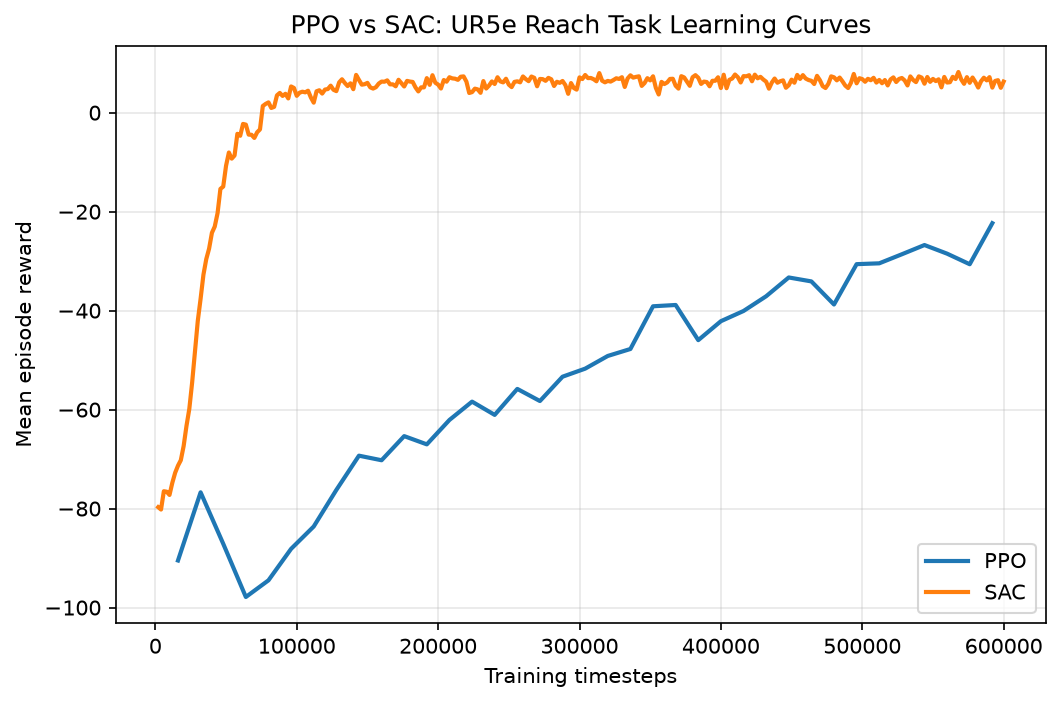
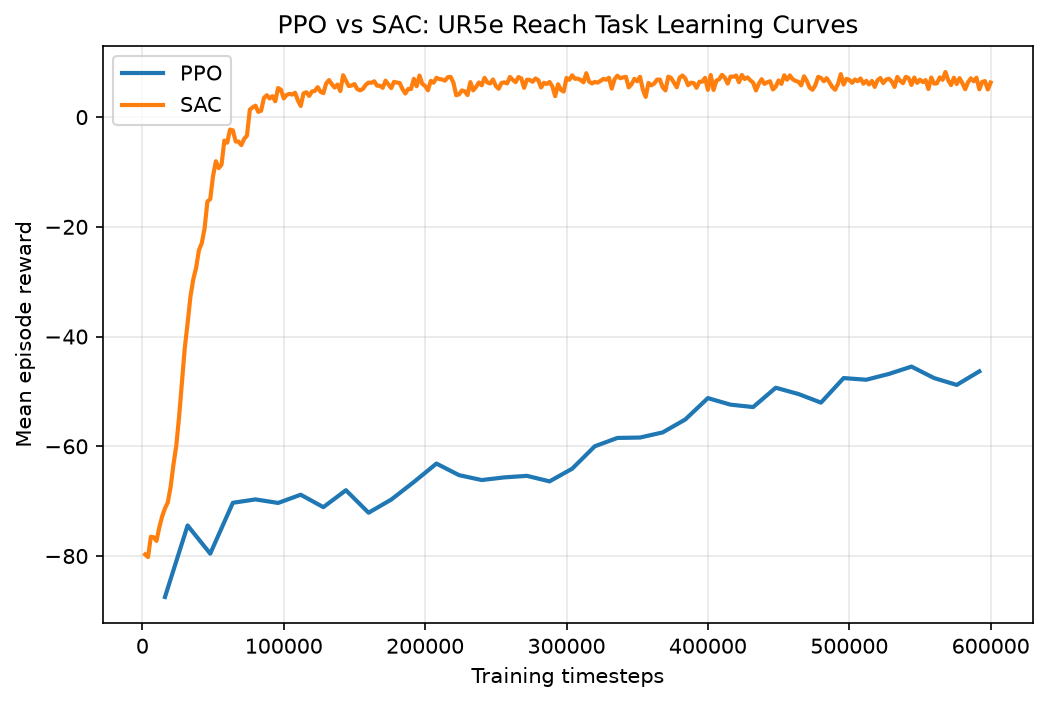
Retrain PPO at 600k to match SAC's budget

diff --git a/README.md b/README.md
@@ -1,14 +1,16 @@
 # UR5e Reach: MuJoCo RL Policy Deployed via ROS 2
 
-A UR5e arm learns to reach randomly placed 3D targets in MuJoCo via reinforcement learning, then gets deployed through a ROS 2 node interface — the same topic structure a real robot controller would use, not just a script that happens to move a simulated arm.
-
-I built this to compare PPO against SAC on a continuous control task, and to get past the part most RL tutorials stop short of: taking a trained policy out of a script and wiring it into something that actually looks like a robotics stack.
+A UR5e arm learns to reach randomly placed 3D targets in MuJoCo via reinforcement learning, then gets deployed through a ROS 2 node interface. I built this to compare PPO against SAC on a continuous control task, and to get past the part most RL tutorials stop short of: taking a trained policy out of a script and wiring it into a ROS 2 topic interface.
 
 ## Why a reach task, not full grasping
 
 Full grasping (arm plus gripper contact dynamics) was the obvious next step after doing navigation work, but contact-rich reward shaping is notoriously slow to get right — it can eat weeks before anything trains reliably. A pure reach task skips the contact problem while still exercising the whole pipeline: environment design, training, and ROS 2 deployment.
 
 I used the official [MuJoCo Menagerie](https://github.com/google-deepmind/mujoco_menagerie) UR5e model instead of building a URDF from scratch. No reason to reinvent a robot model DeepMind already maintains and validates.
+
+## A note on what "reach" measures here
+
+The success condition tracks the position of the `wrist_3_link` body origin, not the model's `attachment_site` (the actual tool-center-point reference, offset about 10cm from that origin in the official model). With a 3cm success threshold, that 10cm gap is not negligible, so I'm calling this a **wrist reference point**, not a true end-effector/TCP reach — the task is real and the numbers below are accurate for what's actually being measured, but it's a wrist-position task, not a precision tool-tip task. Switching to `attachment_site` would be a clean follow-up, at the cost of retraining both models from scratch since it changes the observation and reward computation.
 
 ## Repo structure
 
@@ -31,9 +33,11 @@ results/                          - training outputs land here (gitignored excep
 
 **The observation includes `target_pos - ee_pos`, not just the raw target.** Handing the policy the relative vector directly saves it from learning that subtraction implicitly. Small change, noticeably faster early training.
 
-**PPO runs 8 parallel environments; SAC runs one.** PPO is on-policy and benefits from diverse experience per update. SAC has a replay buffer, so one environment is enough to keep it fed — running more would just burn compute for no benefit.
+**PPO runs 8 parallel environments; SAC runs one.** PPO is on-policy and benefits from diverse experience per update. SAC has a replay buffer, so one environment is enough to keep it fed — running more wouldn't meaningfully help it here.
 
-**Each RL action holds for 50 physics substeps, not one.** The model's physics timestep is 2ms. A single `mj_step()` per action only advances 2ms of real time, which isn't enough for the joint's position servo to move anywhere close to the commanded target — I measured this directly early on: a full-strength action produced about 0.0002 rad of actual movement. Holding the target across 50 substeps gives the servo real time to respond.
+**Each RL action holds for 50 physics substeps, not one.** The model's physics timestep is 2ms. A single `mj_step()` per action only advances 2ms of real time, nowhere near enough for the joint's position servo to move anywhere close to the commanded target — I measured this directly: a full-strength action produced about 0.0002 rad of actual movement with only one substep. Holding the target across 50 substeps (100ms of simulated time per action) gives the servo real time to respond.
+
+**Target sampling uses Gymnasium's seeded `self.np_random`, not the global NumPy RNG.** This wasn't the original implementation — I initially used plain `np.random.uniform()`, which meant `reset(seed=...)` silently didn't control target sampling at all, so two evaluation runs claiming "fixed seeds" weren't actually seeing the same targets. Fixed by routing all environment randomness through `self.np_random`, which is what `reset(seed=...)` actually controls. Worth calling out explicitly since it's exactly the kind of bug that looks fine until someone checks carefully.
 
 ## Setup
 
@@ -48,7 +52,7 @@ git clone --depth 1 --filter=blob:none --sparse https://github.com/google-deepmi
 cd mujoco_menagerie && git sparse-checkout set universal_robots_ur5e && cd ../..
 ```
 
-Quick smoke test — confirms the model loads and the env steps without errors:
+Quick smoke test — confirms the model loads, the env steps without errors, and passes Gymnasium's own API-contract checker:
 ```bash
 python envs/reach_env.py
 ```
@@ -56,27 +60,29 @@ python envs/reach_env.py
 ## Training
 
 ```bash
-python training/train_ppo.py --timesteps 300000
+python training/train_ppo.py --timesteps 600000
 python training/train_sac.py --timesteps 600000
 python training/compare_results.py
 ```
 
-SAC needed more timesteps than PPO to reach a comparable point, which sounds backwards given SAC is the more sample-efficient algorithm — but "sample-efficient" means it needs less *data* per unit of improvement, not less wall-clock training overall. I gave it more budget specifically to see how far it would go, and it kept improving well past where PPO plateaued.
+Both algorithms train on the same 600k-timestep budget and a fixed `seed=42`, so the comparison below isn't confounded by one algorithm simply getting more data than the other.
 
-`compare_results.py` produces `results/learning_curves.png`, `results/evaluation_summary.json`, and runs 20 fixed evaluation episodes for each algorithm, back to back in the same script.
+`compare_results.py` runs 20 evaluation episodes for each algorithm, using `self.np_random`-seeded resets — meaning both algorithms are evaluated against the *same* 20 targets, not independently sampled ones.
 
 ## Results
 
 | Algorithm | Success rate (20 episodes) | Mean final distance |
 |-----------|------------------------------|----------------------|
-| PPO       | 10%                           | 16.4 cm               |
-| SAC       | 95%                           | 3.1 cm                |
+| PPO       | 10%                           | 17.6 cm               |
+| SAC       | 90%                           | 2.2 cm                 |
 
 ![Learning curves](results/learning_curves.png)
 
+I ran this comparison twice. The first pass had two real problems: PPO trained on 300k timesteps against SAC's 600k, and the target-sampling seeding bug above meant the "20 fixed episodes" weren't actually matched between algorithms. Both issues are exactly the kind of thing that makes a comparison look controlled without actually being controlled. I fixed both, retrained PPO to match SAC's budget, and reran the whole evaluation. The result held: PPO landed at 10% again (17.6cm vs the original run's 16.4cm — consistent, not a fluke), while SAC's number shifted slightly (90% vs the original 95%, expected given it's now genuinely a different, previously-unseen set of 20 targets under the fixed seeding). The gap didn't close. That's a stronger result than the first pass, not just a repeated one — it survived a genuine attempt to break it.
+
 SAC's advantage comes down to sample efficiency: its replay buffer lets it reuse every transition many times over, while PPO discards each batch after a single update. For a task like this — continuous control, dense reward, no strict on-policy requirement — that difference compounds significantly over training.
 
-I checked this wasn't just a training-script artifact by deploying the SAC model through the actual ROS 2 bridge and watching it run live. Episode success rate and final distances in the live deployment closely matched the offline numbers above, which is what convinced me the ROS 2 integration reproduces the trained policy's behavior faithfully rather than introducing its own errors.
+I checked this wasn't just a training-script artifact by deploying the SAC model through the actual ROS 2 bridge and watching it run live. Episode success rate and final distances in the live deployment closely matched the offline numbers above.
 
 ![Demo](results/demo.gif)
 
@@ -109,19 +115,23 @@ ros2 launch mujoco_arm_bridge reach_demo.launch.py \
 ```
 
 This starts two nodes:
-- **`sim_node`** owns the MuJoCo simulation, publishes `/joint_states` and `/target_pose`, and subscribes to `/arm_joint_commands`. This is the node you'd swap out for a real UR5e driver later.
-- **`policy_node`** loads the trained model, computes end-effector position via forward kinematics from the reported joint states, and publishes joint commands. It has no idea it's talking to a simulator rather than a real robot — that's the point of the topic-based split.
+- **`sim_node`** owns the MuJoCo simulation, publishes `/joint_states` (using the real UR5e joint names — `shoulder_pan_joint` through `wrist_3_joint`) and `/target_pose`, and subscribes to `/arm_joint_commands`.
+- **`policy_node`** loads the trained model, maps incoming joint states by name (not array position, since a real driver's message ordering isn't guaranteed to match this project's internal convention), computes the wrist reference point via forward kinematics, and publishes joint commands.
+
+**This is a simulation-to-topics bridge, not a certified drop-in real-hardware interface.** A real UR5e deployment via the official ROS 2 driver expects `ros2_control`-style commands (commonly a `FollowJointTrajectory` interface), not this project's normalized `[-1, 1]` RL action array over a custom `Float64MultiArray` topic. Getting from here to actual hardware would need a command-adapter layer between the policy's raw output and the robot's real controller — converting normalized deltas to real joint targets, enforcing velocity/acceleration limits, and handling the interface properly. The topic-based split between simulation and inference is the right architecture to build that adapter on top of; it isn't the adapter itself.
 
 ## Limitations / what I'd do next
 
-- Target sampling uses the global NumPy RNG rather than Gymnasium's seeded `self.np_random`, so evaluation episodes aren't a deterministic, reproducible sequence — PPO and SAC in `compare_results.py` each see 20 randomly sampled targets rather than an identical paired set. Given the size of the gap (95% vs 10%), this doesn't change the conclusion, but a stricter comparison would fix this so both algorithms are guaranteed to see the same 20 targets.
+- The wrist reference point (`wrist_3_link`) isn't the model's actual TCP (`attachment_site`, ~10cm offset) — see note above.
+- Real UR5e ROS 2 deployment needs a command-adapter layer (see ROS 2 deployment section) — normalized RL actions aren't what a real driver's `ros2_control` interface expects.
+- Training holds each action for 100ms of simulated time (50 physics substeps), but `sim_node`'s ROS timer runs at 50Hz (20ms wall-clock). That means each ROS timer tick currently advances 100ms of simulation — roughly 5x real-time — which works fine node-to-node in simulation, but isn't yet the same temporal semantics a real 50Hz control loop against physical hardware would have. Matching the decision interval to whatever the real control rate would be is a needed step before physical deployment, not just a detail.
 - No camera or perception input yet — target position is given directly rather than detected. Natural next step given my other CV work: swap the ground-truth target for an OpenCV/YOLO-detected object pose.
 - No collision avoidance. The reach task doesn't include obstacles; adding one with a collision-penalty term would be a reasonable extension.
 - `policy_node` computes forward kinematics using its own MuJoCo model instance rather than a `tf2` lookup, which is the more standard ROS 2 approach. Functionally equivalent here, but a production deployment would likely use `tf2` for consistency with the rest of the ecosystem.
+- Single training seed per algorithm (`seed=42`). The result is consistent across two independent evaluation runs under different confound conditions, which is reassuring, but multiple training seeds with reported variance would be the statistically rigorous version of this comparison.
 
 ## Requirements
 
 - Python 3.10+
 - MuJoCo 3.x (bundled Python bindings, no separate install needed)
 - ROS 2 (Humble or newer) for the deployment portion — the RL training/comparison portion works standalone without ROS 2 installed
-
